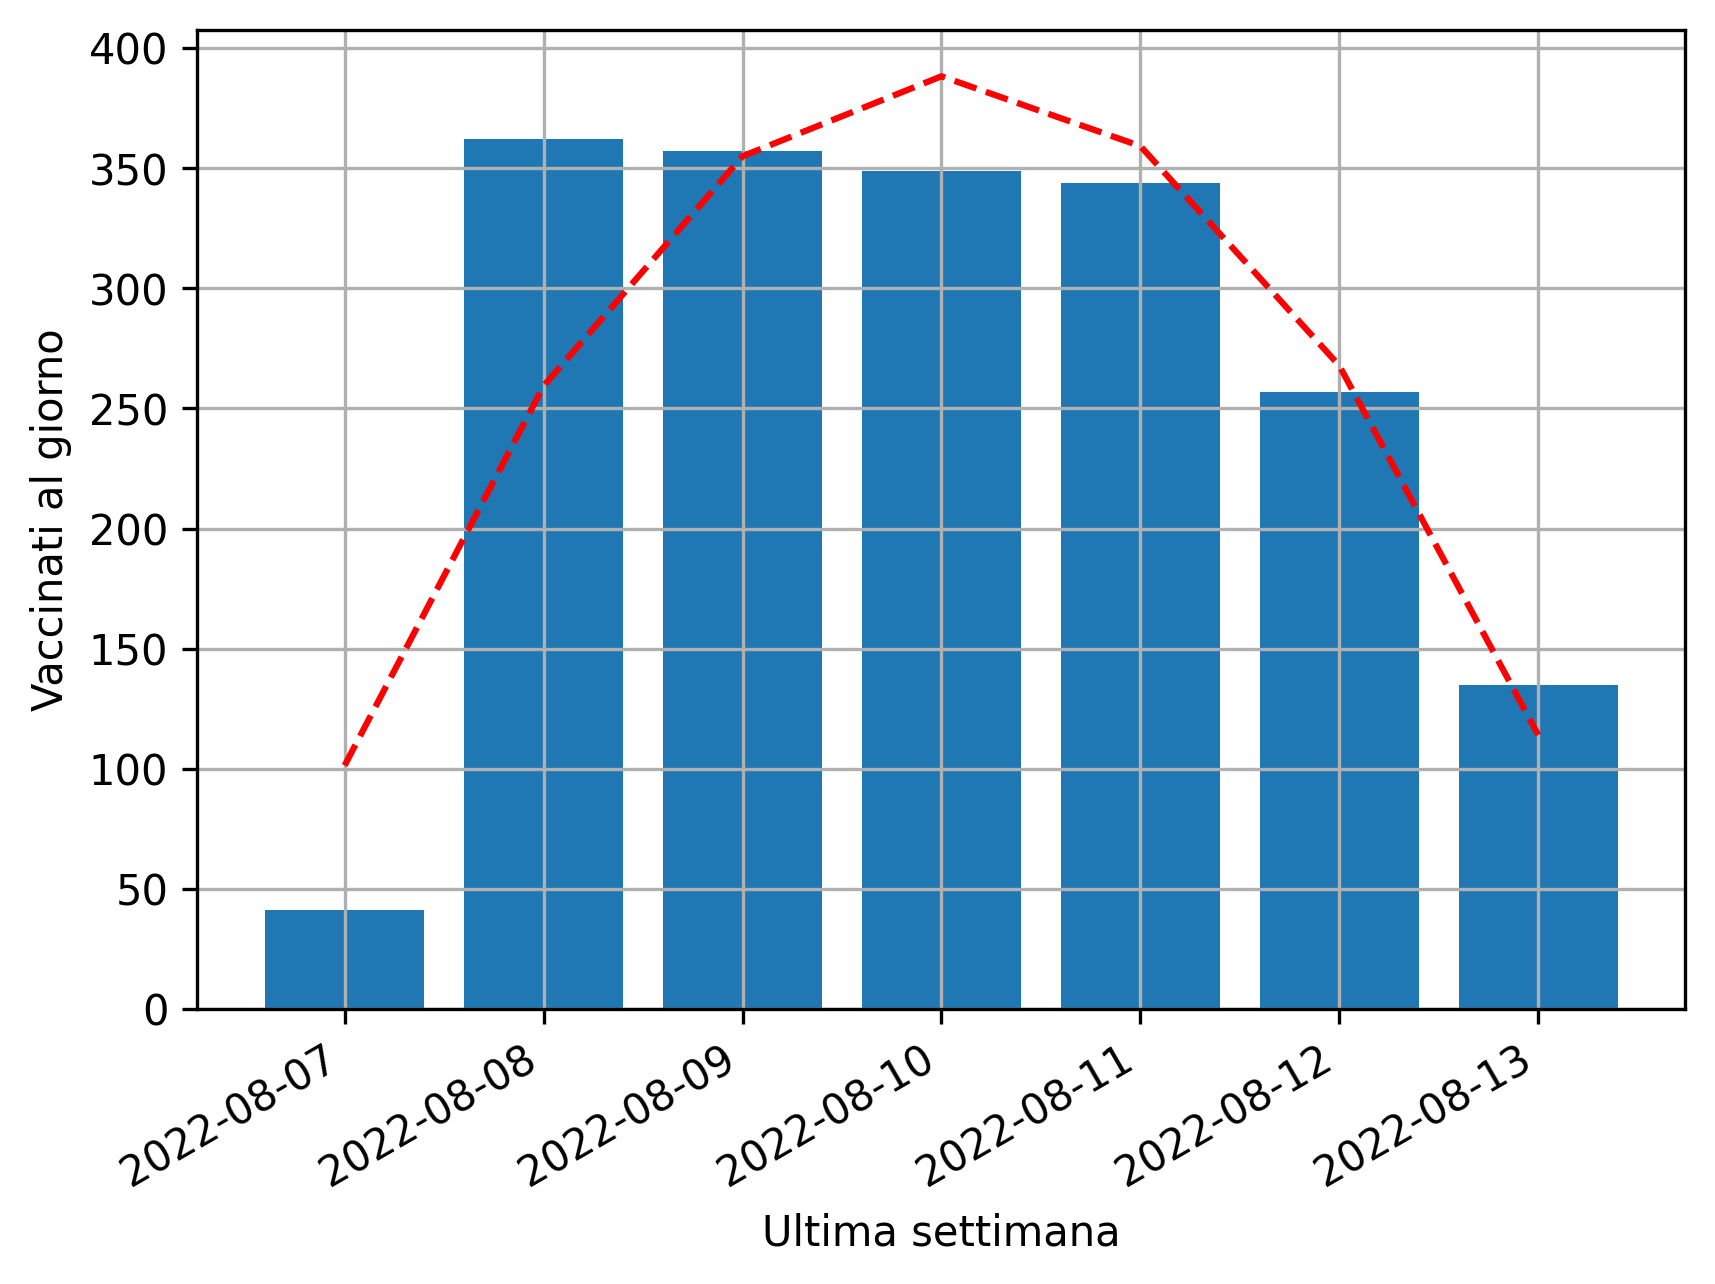
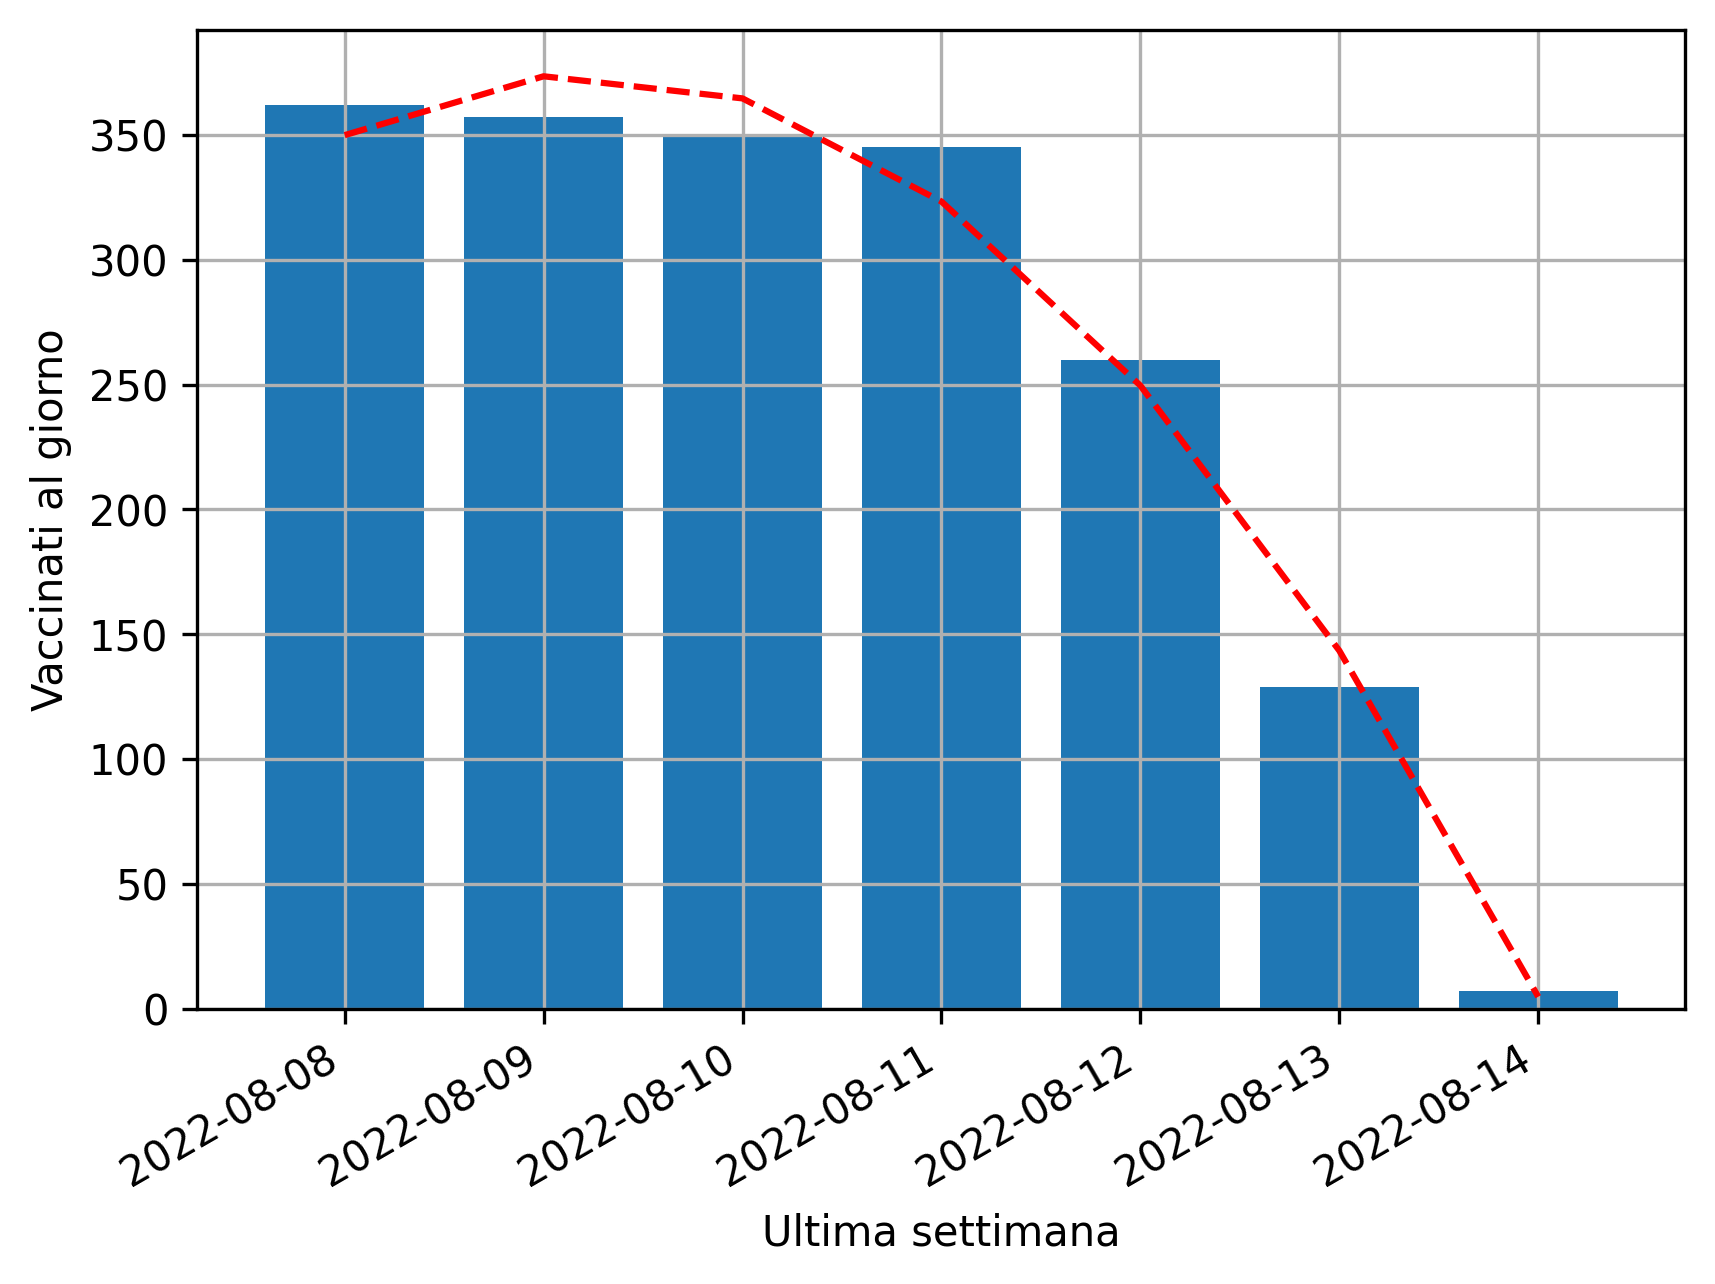
Update dataset and webpage

diff --git a/index.html b/index.html
@@ -71,7 +71,7 @@
 		<div class="text-center">
 			In Italia ci sono <br />
 			<span class="text-big">
-46450961
+46450964
 				persone vaccinate</span> <br />
 			che corrispondono al <br />
 			<span class="text-big">
@@ -80,27 +80,27 @@
 			</span> <br />
 			Ne abbiamo vaccinate <br />
 			<span class="text-big">
-1845
+1809
 				nell'ultima settimana,</span> <br />
 			con un ritmo di <br />
 			<span class="text-big">
-263
+258
 				vaccinati al giorno.</span> <br />
 			Continuando di questo passo, raggiungeremo l'immunità di gregge il <br />
 			<span class="text-bigger">
-11/09/2041
+29/01/2042
 				<span class="d-none d-sm-inline">
-19:05:45
+11:40:29
 				</span>
 			</span> <br />
 			<span class="text" style="position: relative; top: -5px">ovvero fra</span> <br />
 			<span class="text-bigger" style="position: relative; top: -15px;">
-6969
+7108
 				giorni.
 			</span>
 		</div>
 		<img alt="Grafico vaccinati ultima settimana" src="
-plot.png?build=b4c94d281ed7b9babd25f532ab62faf2f963bb66014151ee8d58576ae777965d
+plot.png?build=486b172aa3355671998165638d9462eb4d0cdd76755b76b420830179fcce6550
 		" class="img-fluid">
 		
 		<h3 class="mt-2">Frequently Asked Questions</h3>
